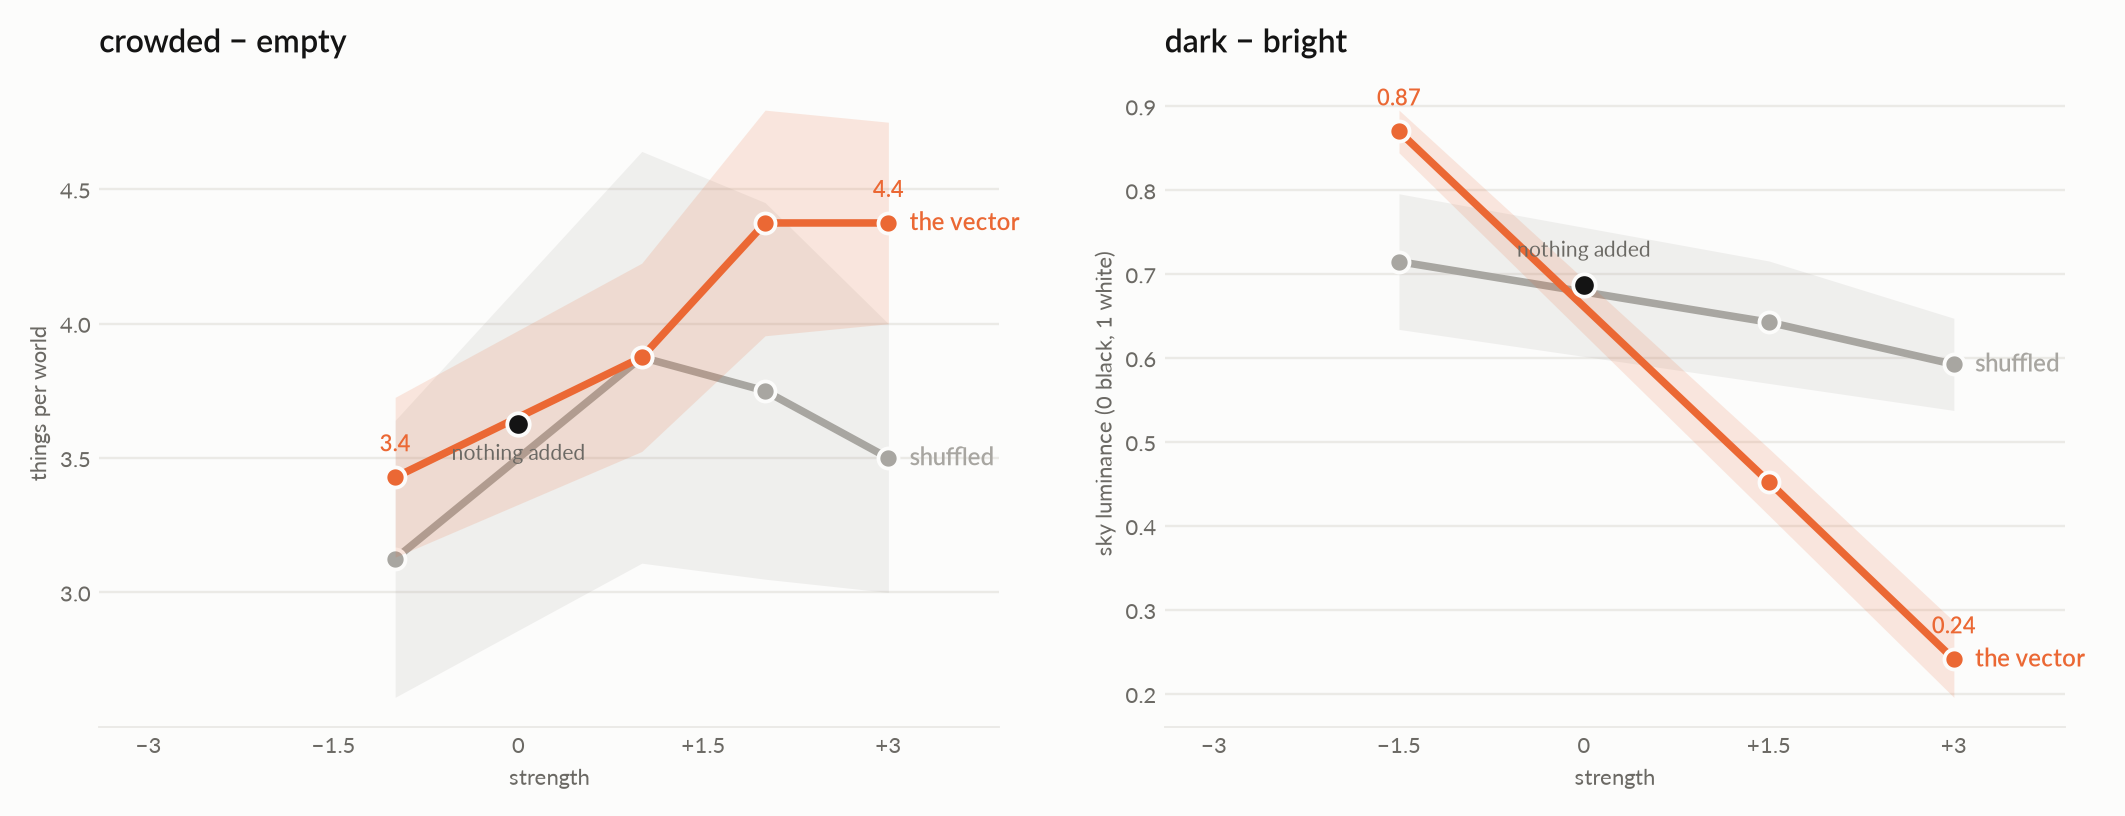
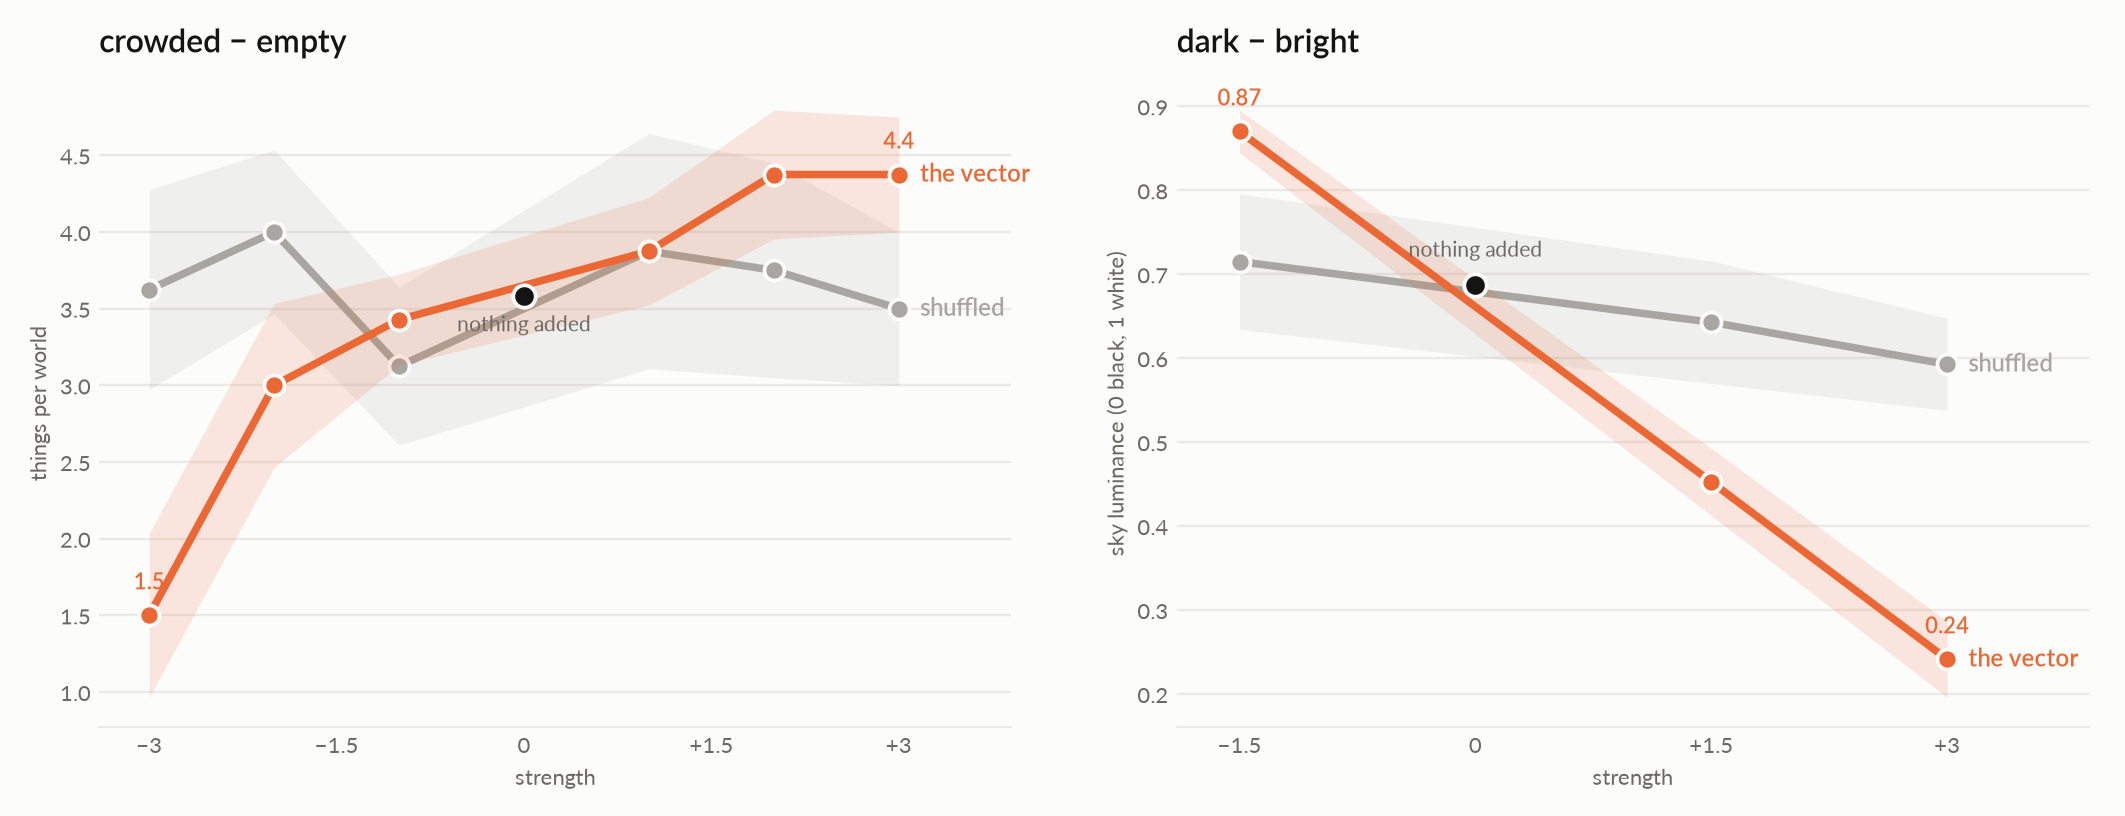
dark from -1.5, crowded whole

diff --git a/fig/plot_sliders.py b/fig/plot_sliders.py
@@ -74,7 +74,7 @@ def main():
     ap.add_argument("--only", default=None, help="comma list of direction names to draw, one panel each")
     ap.add_argument("--out", default=None)
     ap.add_argument("--title", default="The sliders")
-    ap.add_argument("--from", dest="lo", type=float, default=None, help="leave out strengths below this")
+    ap.add_argument("--from", dest="lo", default=None, help="leave out strengths below this: a number, or name:number,name:number")
     a = ap.parse_args()
     fonts()
     live = [(g, n, k, t, y) for g, n, k, t, y in PANELS if glob.glob(str(HERE / "docs" / "runs" / g))]
@@ -87,7 +87,11 @@ def main():
     fig, axes = plt.subplots(rows, cols, figsize=size, facecolor=SURF)
     axes = list(axes.flat) if hasattr(axes, "flat") else [axes]
     for ax, (g, n, k, t, y) in zip(axes, live):
-        panel(ax, series(sorted(glob.glob(str(HERE / "docs" / "runs" / g))), n, k, a.lo), t, y)
+        lo = None
+        if a.lo:
+            los = {x.split(":")[0]: float(x.split(":")[1]) for x in a.lo.split(",") if ":" in x}
+            lo = los.get(n, float(a.lo) if ":" not in a.lo else None)
+        panel(ax, series(sorted(glob.glob(str(HERE / "docs" / "runs" / g))), n, k, lo), t, y)
     for ax in axes[len(live):]:
         ax.axis("off")
     fig.tight_layout(h_pad=1.6, w_pad=2.4)

diff --git a/fig/style.py b/fig/style.py
@@ -88,7 +88,8 @@ def curves(ax, pts, title, ylabel, centre=mean_se, log=False, ylim=None, yticks=
     if yticks:
         ax.set_yticks(yticks, [str(t) for t in yticks])
     # names at the right end of each line, pushed apart if they would touch
-    ax.set_xlim(-3.4, 3.9)
+    lo = min([s for k in ("real", "placebo") for s in pts.get(k, {})] + [0.0])
+    ax.set_xlim(min(-3.4, lo - 0.4) if lo <= -3 else lo - 0.4, 3.9)
     ends.sort(key=lambda e: e[1])
     ys_disp = []
     for x, y, label, color, kind in ends:
@@ -103,7 +104,8 @@ def curves(ax, pts, title, ylabel, centre=mean_se, log=False, ylim=None, yticks=
     ax.set_title(title, loc="left", color=INK, fontsize=13.5, fontweight="semibold", pad=12)
     ax.set_ylabel(ylabel, color=INK2, fontsize=9.5)
     ax.set_xlabel("strength", color=INK2, fontsize=9.5)
-    ax.set_xticks([-3, -1.5, 0, 1.5, 3], ["−3", "−1.5", "0", "+1.5", "+3"])
+    ticks = [x for x in (-3, -1.5, 0, 1.5, 3) if x >= lo - 0.01]
+    ax.set_xticks(ticks, [("−" + str(abs(x)).rstrip("0").rstrip(".")) if x < 0 else ("+" + str(x).rstrip("0").rstrip(".") if x > 0 else "0") for x in ticks])
     ax.grid(axis="y", color=GRID, linewidth=1)
     ax.set_axisbelow(True)
     for s in ("top", "right", "left"):
